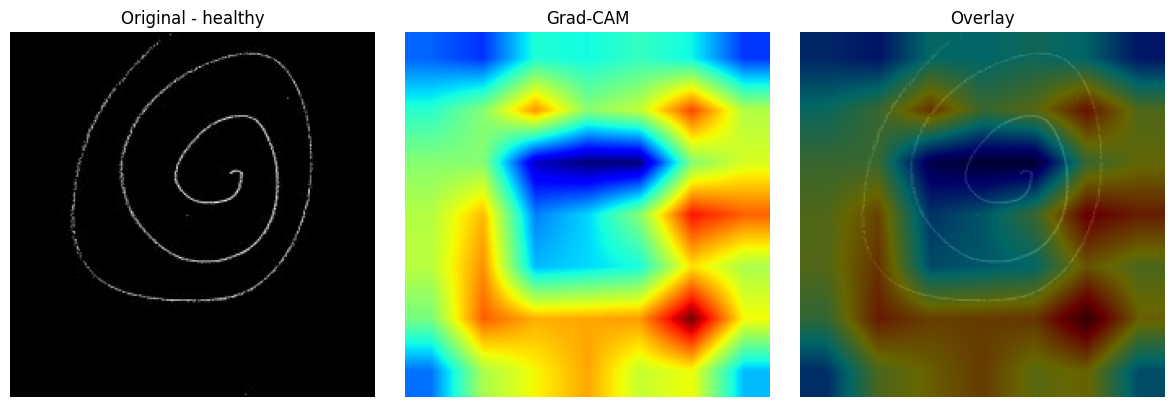
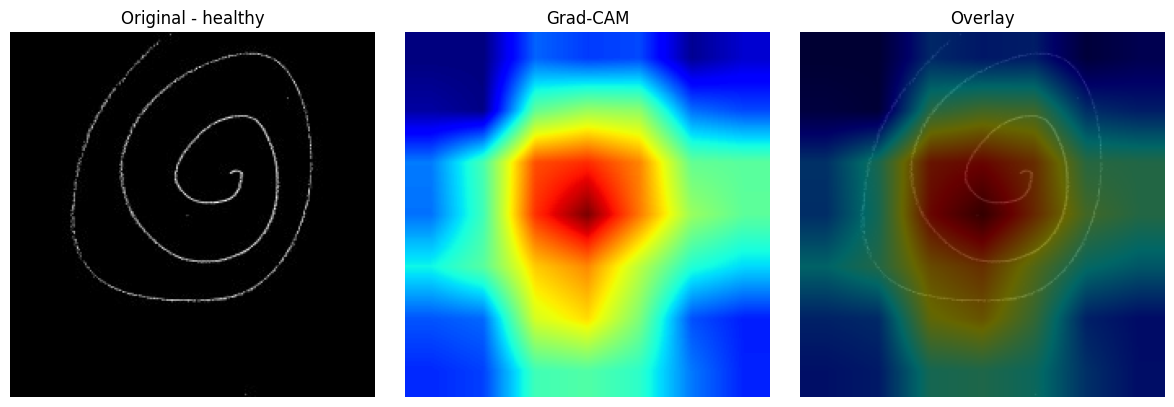
Unimodal Handwriting v6

diff --git a/train.py b/train.py
@@ -418,10 +418,13 @@ def train_one_fold(
             preds
         )
 
-        val_auc = roc_auc_score(
-            true_labels,
-            probs
-        )
+        try:
+            val_auc = roc_auc_score(
+                true_labels,
+                probs
+            )
+        except ValueError:
+            val_auc = np.nan
 
         scheduler.step(val_auc)
 
@@ -540,10 +543,13 @@ def evaluate_model(model, test_loader):
         zero_division=0
     )
 
-    auc = roc_auc_score(
-        true_labels,
-        probs
-    )
+    try:
+        auc = roc_auc_score(
+            true_labels,
+            probs
+        )
+    except ValueError:
+        auc = np.nan
 
     cm = confusion_matrix(
         true_labels,
@@ -622,6 +628,16 @@ def run_cross_validation():
         train_df = metadata_df.iloc[train_idx]
 
         test_df = metadata_df.iloc[test_idx]
+
+        # ============================================================
+        # LABEL DISTRIBUTION CHECK
+        # ============================================================
+
+        print("Train label distribution:")
+        print(train_df["label"].value_counts())
+
+        print("\nTest label distribution:")
+        print(test_df["label"].value_counts())
 
         # ============================================================
         # DATASETS

diff --git a/H_ML_pipeline.py b/H_ML_pipeline.py
@@ -224,6 +224,12 @@ for model_name, model in models.items():
         y_train = labels[train_idx]
         y_test = labels[test_idx]
 
+        print("\nTrain label distribution:")
+        print(pd.Series(y_train).value_counts())
+
+        print("\nTest label distribution:")
+        print(pd.Series(y_test).value_counts())
+
         # -----------------------------------------------------------------
         # TRAIN
         # -----------------------------------------------------------------
@@ -268,10 +274,13 @@ for model_name, model in models.items():
             zero_division=0
         )
 
-        auc = roc_auc_score(
-            y_test,
-            probs
-        )
+        try:
+            auc = roc_auc_score(
+                y_test,
+                probs
+            )
+        except ValueError:
+            auc = np.nan
 
         cm = confusion_matrix(
             y_test,
